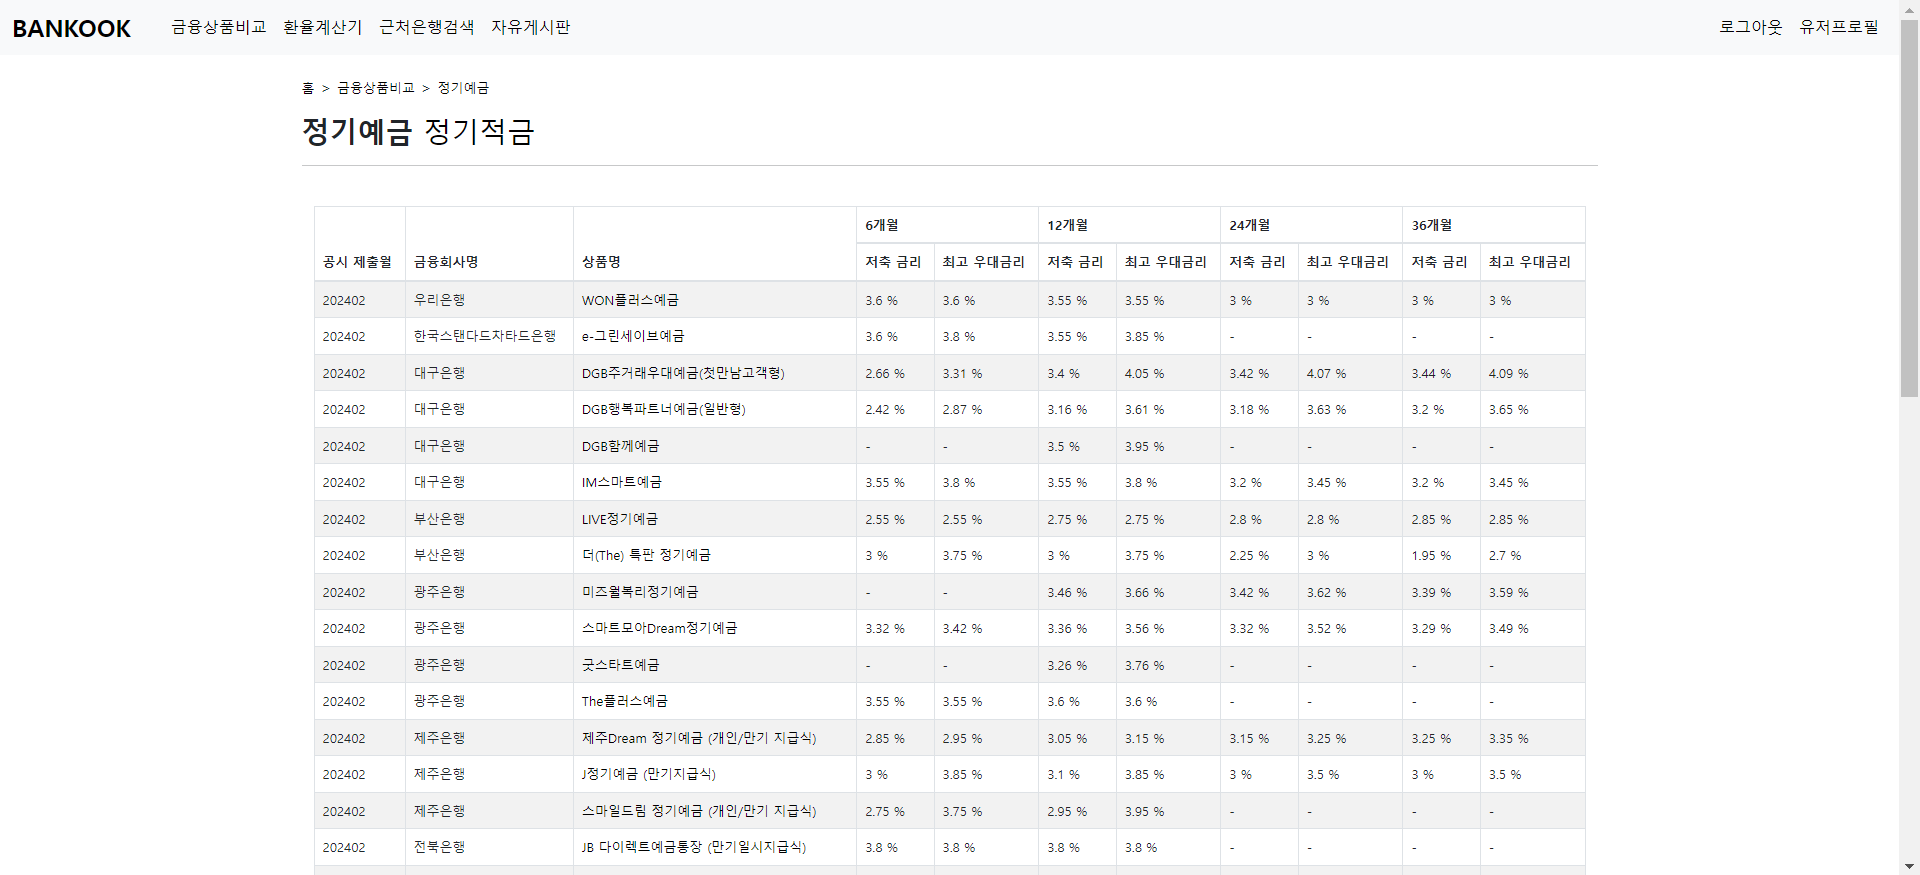
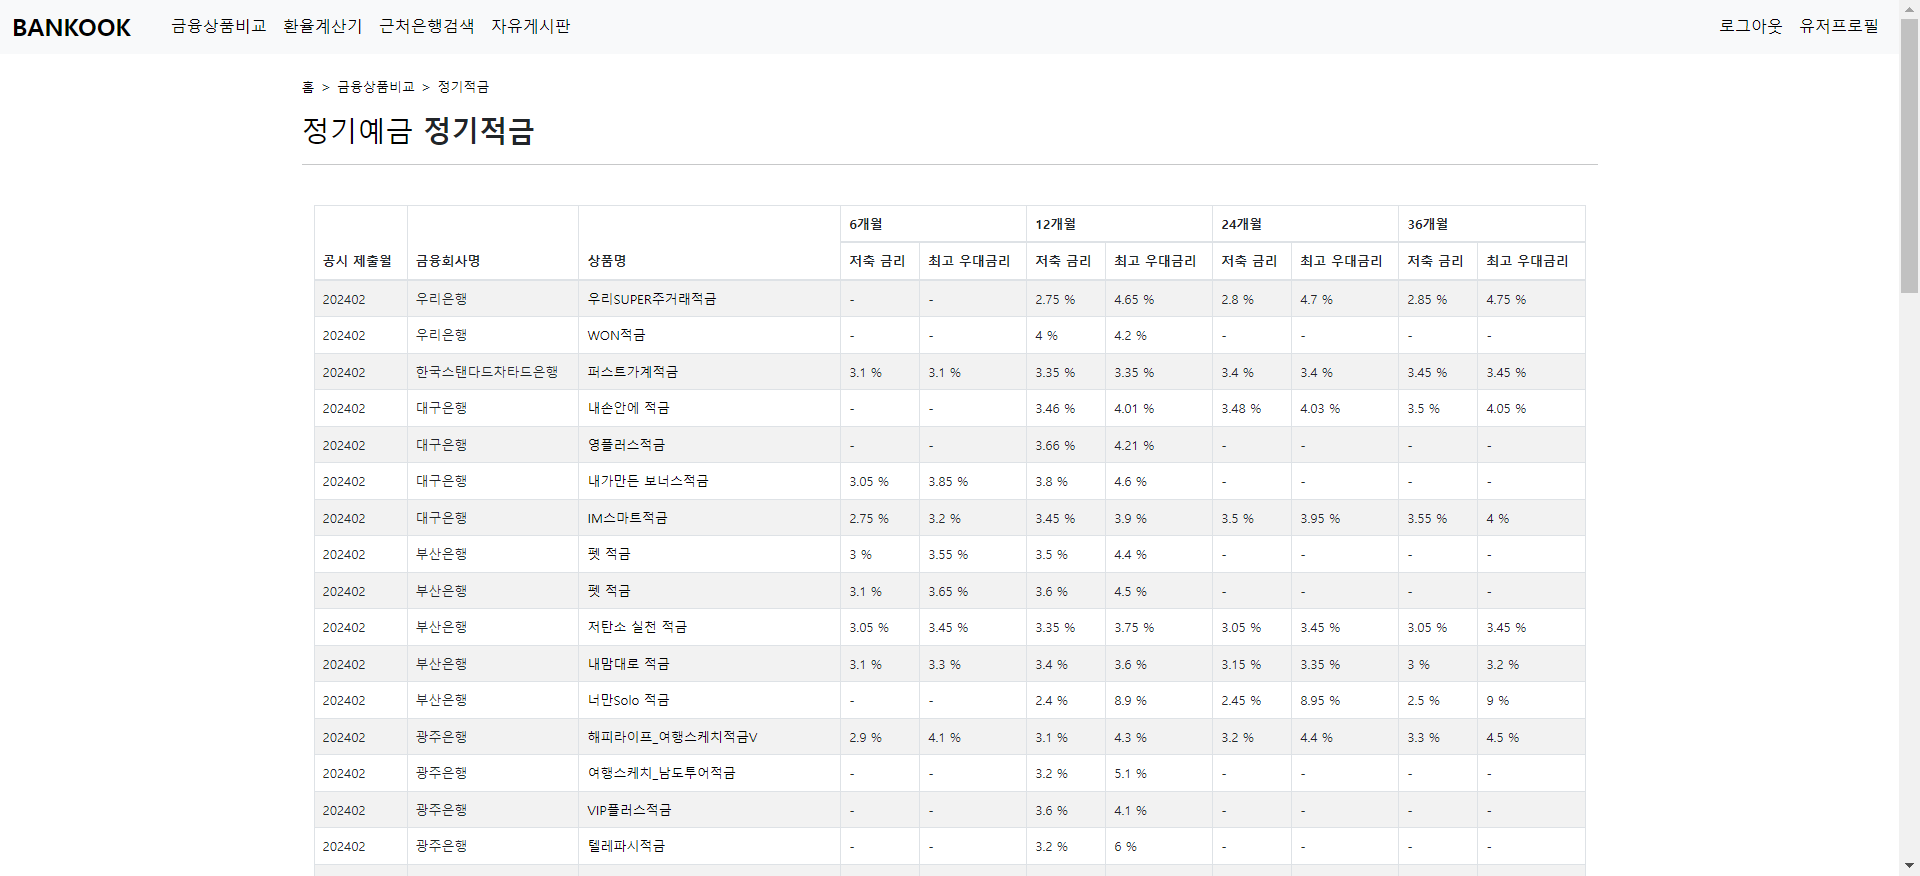
.

diff --git a/README.md b/README.md
@@ -1,7 +1,7 @@
 # 내 입맛대로 금융을 요리하다, BANKOOK
 
 
-### 목차
+## 목차
 1. [GOAL](#oal)
 2. [TECH STACK](#tech-stack)
 3. [API](#api)
@@ -11,34 +11,32 @@
 7. [서비스 화면](#서비스-화면)
 ---
 
-### 📌 GOAL
+## 📌 GOAL
 - 금융상품 추천 서비스를 포함한 금융 상품 비교 웹 애플리케이션 구현
 
-### 💻 TECH STACK
+## 💻 TECH STACK
 - front: JavaScript, Vue, Node.js
 - back: Django, SQLite
 
-### 📚 API
+## 📚 API
 * Kakao Maps API
 * 한국수출입은행 환율 API
 * 금융감독원 API
 * 대한민국 법정동 코드 조회 API (juso.dev)
 
-### 🎨 Prototype (using Kakao Oven)
+## 🎨 Prototype (using Kakao Oven)
 ![목업](https://github.com/goldbutnew/BANKOOK/assets/149566915/b26b22fe-07b7-425e-b8f7-6cef77701015)
 
-
-### ⚙ ERD (using django-extentions graph_models)
+## ⚙ ERD (using django-extentions graph_models)
 * django-extentions 라이브러리의 graph_models 패키지를 이용
 * accounts 모델은 django.contrib.auth.models로부터 AbstractUser model을 import 받아서 커스텀
 ![my_api_model](https://github.com/goldbutnew/BANKOOK/assets/149566915/b96b6580-547b-452f-9cd5-822f6319690b)
 
-
-### 👫 역할분담 (기능으로 분담)
+## 👫 역할분담 (기능으로 분담)
 * 이금현: 메인페이지, 근처은행검색, 자유게시판CRUD, CSS 및 UI/UX Design
 * 김도훈: 회원커스터마이징, 금융상품비교, 환율계산기, 로그인 기능, 프로필페이지
 
-### 🎙 서비스 화면
+## 🎙 서비스 화면
 * 메인페이지
   <table>
     <tr>
@@ -53,6 +51,9 @@
     <tr>
       <td>
         <img src="img/bankook_compare.png" width="100%" />
+      </td>
+      <td>
+        <img src="img/bankook_compare_deposit.png" width="100%" />
       </td>
     </tr>
     <tr>
@@ -87,29 +88,16 @@
   <table>
     <tr>
       <td>
-        <strong>아티클 관련</strong>
-      </td>
-    </tr>
-    <tr>
-      <td>
         <img src="img/bankook_community.png" width="100%" />
       </td>
-    </tr>
-    <tr></tr>
-    <tr>
       <td>
         <img src="img/bankook_community_create.png" width="100%" />
       </td>
+    </tr>
+    <tr>
       <td>
         <img src="img/bankook_community_detail.png" width="100%" />
       </td>
-    </tr>
-    <tr>
-      <td>
-        <strong>코멘트 관련</strong>
-      </td>
-    </tr>
-    <tr>
       <td>
         <img src="img/bankook_community_comment.png" width="100%" />
       </td>
@@ -117,35 +105,20 @@
   </table>
 
 * 회원 정보 관련
-<table>
-  <tr>
-    <td>
-      <strong>유저 정보</strong>
-    </td>
-  </tr>
-  <tr>
-    <td>
-      <img src="img/bankook_user.png" width="100%" />
-    </td>
-  </tr>
-  <tr>
-    <td>
-      <strong>가입한 상품 정보</strong>
-    </td>
-  </tr>
-  <tr>
-    <td>
-      <img src="img/bankook_user_join.png" width="100%" />
-    </td>
-  </tr>
-  <tr>
-    <td>
-      <strong>상품 추천 받기</strong>
-    </td>
-  </tr>
-  <tr>
-    <td>
-      <img src="img/bankook_user_recommend.png" width="100%" />
-    </td>
-  </tr>
-</table>
+  <table>
+    <tr>
+      <td>
+        <img src="img/bankook_user.png" width="100%" />
+      </td>
+    </tr>
+    <tr>
+      <td>
+        <img src="img/bankook_user_join.png" width="100%" />
+      </td>
+    </tr>
+    <tr>
+      <td>
+        <img src="img/bankook_user_recommend.png" width="100%" />
+      </td>
+    </tr>
+  </table>
